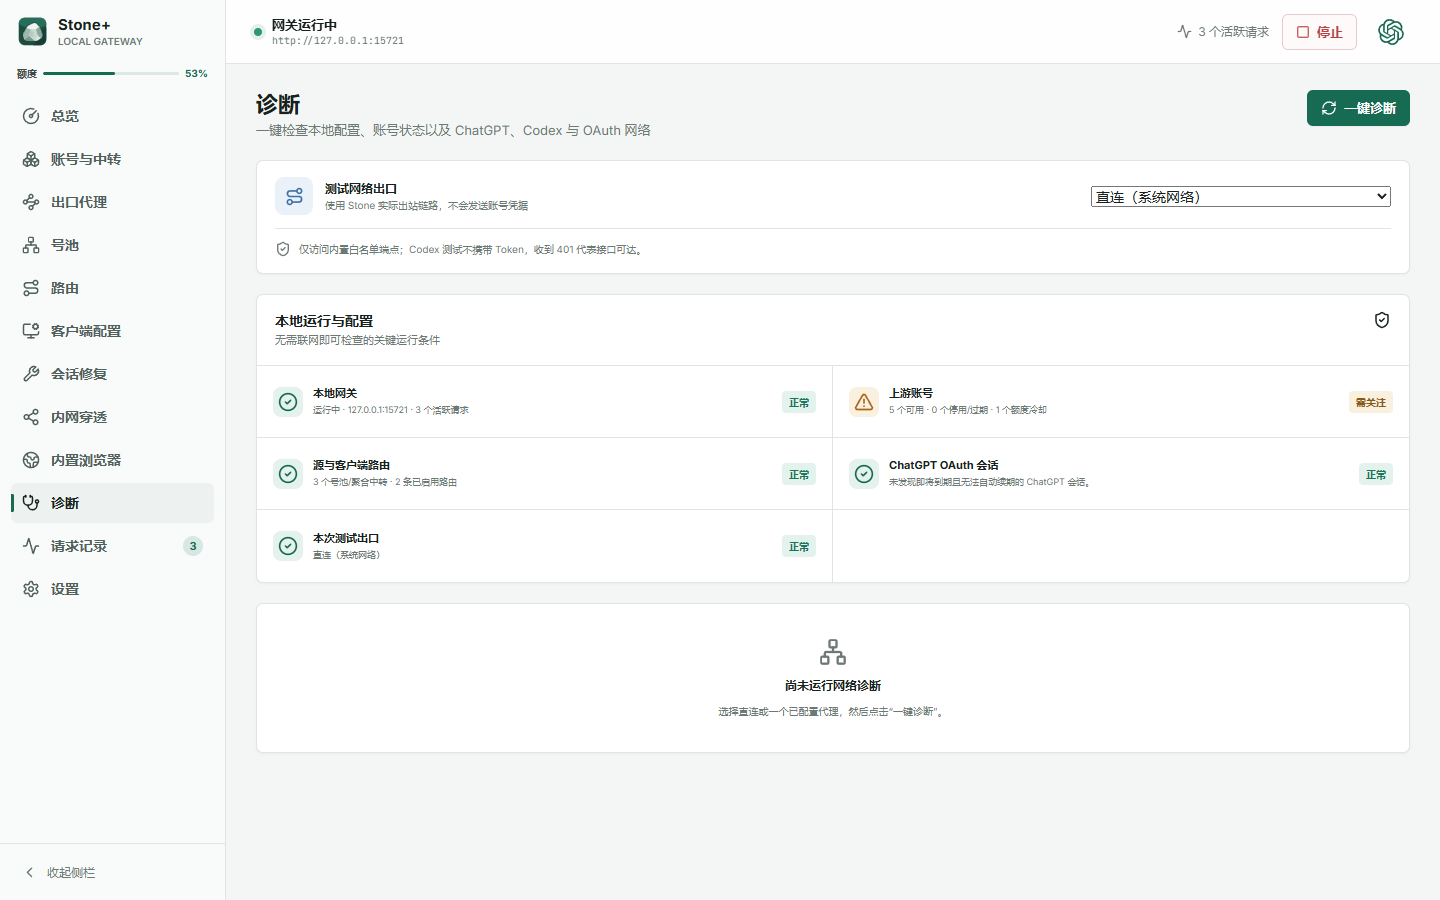
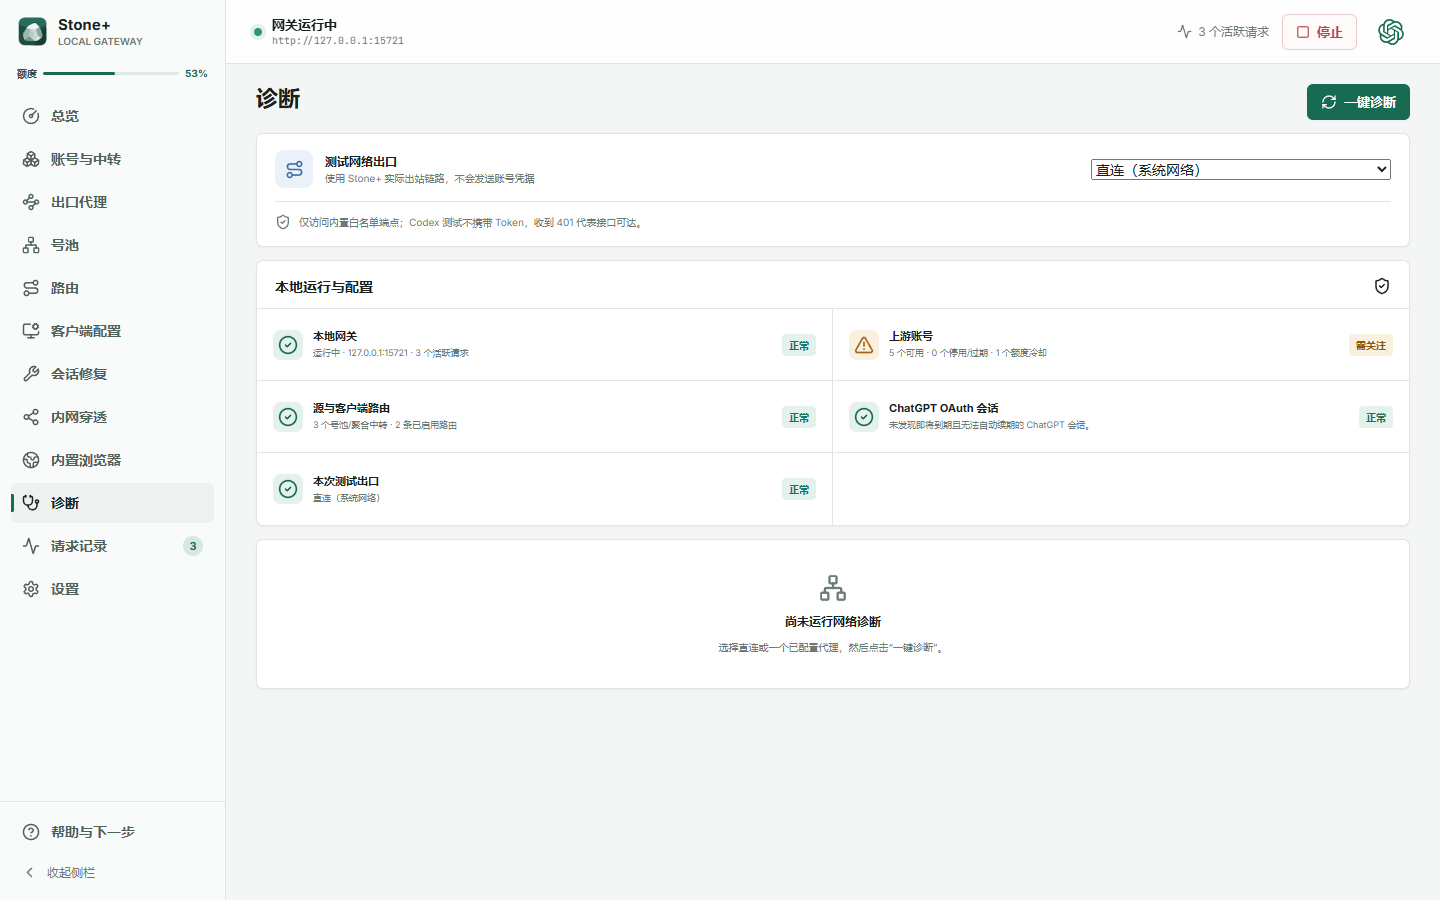
fix(brand): replace remaining Stone promotional assets

diff --git a/src/main/ipc/gateway-api.ts b/src/main/ipc/gateway-api.ts
@@ -282,7 +282,7 @@ export function registerGatewayApi(
       else gateway.resetAccountHealth(accountId)
       publish(refreshRuntime())
     } catch (error) {
-      console.error('Stone could not probe an exhausted ChatGPT account quota', error)
+      console.error('Stone+ could not probe an exhausted ChatGPT account quota', error)
       scheduleQuotaProbe(accountId, Date.now() + 60_000)
     } finally {
       quotaProbeFlights.delete(accountId)
@@ -509,7 +509,7 @@ export function registerGatewayApi(
     void store.appendLog(log).then(() => {
       scheduleRuntimePublish()
     }).catch((error: unknown) => {
-      console.error('Stone could not persist a gateway request log', error)
+      console.error('Stone+ could not persist a gateway request log', error)
     })
   })
 
@@ -592,7 +592,7 @@ export function registerGatewayApi(
     pendingActiveAccountStates.clear()
     await Promise.all(pending.map(async (state) => {
       await persistRoutineAccountState(state).catch((error: unknown) => {
-        console.error('Stone could not persist account health state', error)
+        console.error('Stone+ could not persist account health state', error)
       })
     }))
   }
@@ -608,7 +608,7 @@ export function registerGatewayApi(
     if (routingTransition) {
       pendingActiveAccountStates.delete(state.accountId)
       void persistAccountState(state).catch((error: unknown) => {
-        console.error('Stone could not persist account health state', error)
+        console.error('Stone+ could not persist account health state', error)
       })
       return
     }
@@ -1505,7 +1505,7 @@ export function registerGatewayApi(
       if (wasRunning) {
         gateway.updateConfig(toGatewayConfig(store))
         await gateway.start().catch((restartError: unknown) => {
-          console.error('Stone could not restart the gateway after a failed database restore', restartError)
+          console.error('Stone+ could not restart the gateway after a failed database restore', restartError)
         })
       }
       store.setGatewayStatus(gateway.getStatus())
@@ -2084,7 +2084,7 @@ function healthEventForTransition(
   const wasExhausted = quotaExhausted(before)
   const exhausted = quotaExhausted(after)
   if (!wasExhausted && exhausted) {
-    kind = 'quota-exhausted'; severity = 'warning'; message = '额度已耗尽，Stone 已暂停调度该账号。'
+    kind = 'quota-exhausted'; severity = 'warning'; message = '额度已耗尽，Stone+ 已暂停调度该账号。'
   } else if (wasExhausted && !exhausted) {
     kind = 'quota-restored'; message = '额度窗口已恢复，账号可以重新参与调度。'
   } else if (before && before.status !== 'active' && after.status === 'active') {
@@ -2124,7 +2124,7 @@ function backupIdFromPath(path: string): string {
   if (typeof path !== 'string' || !path) throw new Error('A backup path is required.')
   const id = basename(path)
   const expectedPath = join(app.getPath('userData'), 'backups', id)
-  if (path !== id && path !== expectedPath) throw new Error('Backup path is outside Stone backup storage.')
+  if (path !== id && path !== expectedPath) throw new Error('Backup path is outside Stone+ backup storage.')
   return id
 }
 

diff --git a/src/main/index.ts b/src/main/index.ts
@@ -173,7 +173,7 @@ async function bootstrap(): Promise<void> {
       await gateway.start()
       warmGatewayConnections(store, outboundTransport)
     } catch (error: unknown) {
-      console.error('Stone could not auto-start the gateway', error)
+      console.error('Stone+ could not auto-start the gateway', error)
     } finally {
       store.setGatewayStatus(gateway.getStatus())
     }
@@ -256,7 +256,7 @@ function createWindow(): void {
 function createTray(): void {
   const icon = nativeImage.createFromPath(stoneIconPath())
   if (icon.isEmpty()) {
-    console.warn('Stone tray icon could not be created; continuing without a tray')
+    console.warn('Stone+ tray icon could not be created; continuing without a tray')
     return
   }
 
@@ -338,7 +338,7 @@ async function toggleGatewayFromTray(): Promise<void> {
     store.setGatewayStatus(gateway.getStatus())
     updateTrayMenu()
   } catch (error) {
-    console.error('Stone tray could not toggle gateway', error)
+    console.error('Stone+ tray could not toggle gateway', error)
   }
 }
 
@@ -350,7 +350,7 @@ async function toggleRouteFromTray(routeId: string): Promise<void> {
     gateway.updateConfig(toGatewayConfig(store))
     updateTrayMenu()
   } catch (error) {
-    console.error('Stone tray could not toggle route', error)
+    console.error('Stone+ tray could not toggle route', error)
   }
 }
 
@@ -383,7 +383,7 @@ if (!ownsSingleInstanceLock) {
   app.quit()
 } else {
   void bootstrap().catch((error: unknown) => {
-    console.error('Stone failed to start', error)
+    console.error('Stone+ failed to start', error)
     app.quit()
   })
 }
@@ -404,7 +404,7 @@ function shutdownServices(): Promise<void> {
       if (browserImportQueue) await browserImportQueue.close()
       if (store) await store.close()
     } catch (error: unknown) {
-      console.error('Stone could not finish graceful shutdown', error)
+      console.error('Stone+ could not finish graceful shutdown', error)
     } finally {
       storeClosed = true
     }

diff --git a/src/renderer/src/views/SetupWizardView.tsx b/src/renderer/src/views/SetupWizardView.tsx
@@ -798,7 +798,7 @@ export function SetupWizardView({
                 <label><span><Tag size={13} />{t('账号 Tag（代替备注）', 'Account tag (replaces notes)')}</span><select value={tagId ?? ''} disabled={importConfigurationLocked} onChange={(event) => { const value = event.target.value || null; setTagId(value); void move('source-config', { sourceMethod: accountAddMethod, tagId: value }) }}><option value="">{t('未标记', 'Untagged')}</option>{snapshot.accountTags.map((tag) => <option value={tag.id} key={tag.id}>{tag.name}</option>)}</select><small>{t('同一账号仅使用一个 Tag；未标记会清空重复账号原 Tag。', 'An account can have one tag. Choosing Untagged clears the existing tag on a duplicate account.')}</small></label>
                 <label><span>{t('导入后加入号池（可选）', 'Add to a pool after import (optional)')}</span><select value={poolId ?? ''} disabled={importConfigurationLocked} onChange={(event) => { const value = event.target.value || null; setPoolId(value); void move('source-config', { sourceMethod: accountAddMethod, poolId: value }) }}><option value="">{t('不加入号池', 'Do not add to a pool')}</option>{compatiblePools.map((pool) => <option value={pool.id} key={pool.id}>{setupPoolDisplayName(pool.name, t)} · {t(`${pool.members.length} 个成员`, `${pool.members.length} member(s)`)} · {pool.strategy}</option>)}</select><small>{t('仅列出普通 OpenAI Responses 号池；只加入检测成功账号。', 'Only standard OpenAI Responses pools are listed, and only accounts that pass checks are added.')}</small></label>
                 <label className="full"><span>{t('快速新建 Tag', 'Create a tag')}</span><div className="setup-inline-create"><input maxLength={24} disabled={importConfigurationLocked} value={newTagName} onChange={(event) => setNewTagName(event.target.value)} placeholder={t('自定义 Tag', 'Custom tag')} /><button className="button button--secondary" type="button" disabled={importConfigurationLocked || !newTagName.trim() || Boolean(busy)} onClick={() => void createImportTag()}>{busy === 'create-tag' ? <LoaderCircle size={15} className="spin" /> : <Plus size={15} />}{t('新建并选中', 'Create and select')}</button></div></label>
-                <label><span>{accountAddMethod === 'oauth' ? t('Token 交换与后续检测出口', 'Network exit for token exchange and checks') : t('出口代理', 'Outbound proxy')}</span><select value={proxyId} disabled={importConfigurationLocked} onChange={(event) => { const value = event.target.value; setProxyId(value); void move('source-config', { sourceMethod: accountAddMethod, proxyId: value || null }) }}><option value="">{t('Stone 直连 / 全局出口设置', 'Direct / global outbound setting')}</option>{snapshot.proxies.map((proxy) => <option value={proxy.id} key={proxy.id}>{proxy.name} · {proxy.protocol.toUpperCase()}</option>)}</select><small>{accountAddMethod === 'oauth' ? t('系统浏览器使用自身网络；此选择只用于 Token 交换、检测和后续上游请求。', 'Your system browser uses its own network. This exit is only used for token exchange, account checks, and later upstream requests.') : t('所选出口用于导入后的账号检测和后续上游请求。', 'The selected exit is used to check imported accounts and for later upstream requests.')}</small></label>
+                <label><span>{accountAddMethod === 'oauth' ? t('Token 交换与后续检测出口', 'Network exit for token exchange and checks') : t('出口代理', 'Outbound proxy')}</span><select value={proxyId} disabled={importConfigurationLocked} onChange={(event) => { const value = event.target.value; setProxyId(value); void move('source-config', { sourceMethod: accountAddMethod, proxyId: value || null }) }}><option value="">{t('Stone+ 直连 / 全局出口设置', 'Direct / global outbound setting')}</option>{snapshot.proxies.map((proxy) => <option value={proxy.id} key={proxy.id}>{proxy.name} · {proxy.protocol.toUpperCase()}</option>)}</select><small>{accountAddMethod === 'oauth' ? t('系统浏览器使用自身网络；此选择只用于 Token 交换、检测和后续上游请求。', 'Your system browser uses its own network. This exit is only used for token exchange, account checks, and later upstream requests.') : t('所选出口用于导入后的账号检测和后续上游请求。', 'The selected exit is used to check imported accounts and for later upstream requests.')}</small></label>
                 <label><span>{t('账号名称（可选）', 'Account name (optional)')}</span><input value={accountName} disabled={importConfigurationLocked} onChange={(event) => setAccountName(event.target.value)} placeholder={t('留空则使用账号邮箱', 'Leave blank to use the account email')} /></label>
               </div>
               </div>
@@ -843,16 +843,16 @@ export function SetupWizardView({
           </WizardSection>}
 
           {currentStep === 'client' && <WizardSection icon={<Settings2 />} title={t('选择主客户端', 'Choose your primary client')} description={t('向导一次配置一个客户端，完成后可以继续配置其他客户端。', 'The wizard configures one client at a time. You can add more after this setup.')}>
-            <div className="setup-choice-grid setup-choice-grid--clients">{(['codex', 'claude', 'gemini'] as RouteClient[]).map((item) => <Choice key={item} title={clientLabels[item]} description={item === 'codex' ? t('推荐用于 OAuth / Responses 来源', 'Recommended for OAuth / Responses sources') : t(`通过 Stone 协议转换接入 ${clientLabels[item]}`, `Connect ${clientLabels[item]} through Stone protocol conversion`)} selected={client === item} onClick={() => setClient(item)} />)}</div>
+            <div className="setup-choice-grid setup-choice-grid--clients">{(['codex', 'claude', 'gemini'] as RouteClient[]).map((item) => <Choice key={item} title={clientLabels[item]} description={item === 'codex' ? t('推荐用于 OAuth / Responses 来源', 'Recommended for OAuth / Responses sources') : t(`通过 Stone+ 协议转换接入 ${clientLabels[item]}`, `Connect ${clientLabels[item]} through Stone+ protocol conversion`)} selected={client === item} onClick={() => setClient(item)} />)}</div>
             <PrimaryAction busy={false} onClick={() => void move('routing', { client, model })} label={t('继续配置路由', 'Continue to routing')} />
           </WizardSection>}
 
-          {currentStep === 'routing' && <WizardSection icon={<Waypoints />} title={t('创建号池与路由', 'Create the pool and route')} description={t('Stone 会原子创建或复用号池，并启用对应客户端路由。', 'Stone atomically creates or reuses a pool and enables the matching client route.')}>
+          {currentStep === 'routing' && <WizardSection icon={<Waypoints />} title={t('创建号池与路由', 'Create the pool and route')} description={t('Stone+ 会原子创建或复用号池，并启用对应客户端路由。', 'Stone+ atomically creates or reuses a pool and enables the matching client route.')}>
             <SummaryRows rows={[[t('来源', 'Source'), selectedAccount?.name ?? selectedAccountId], [t('客户端', 'Client'), clientLabels[client]], [t('模型', 'Model'), model || t('未选择', 'Not selected')], [t('目标号池', 'Target pool'), snapshot.pools.find((pool) => pool.id === (aggregatePoolId || poolId))?.name ?? t('自动创建或复用', 'Create or reuse automatically')]]} />
             <PrimaryAction busy={busy === 'routing'} onClick={() => void createRouting()} label={t('应用号池与路由', 'Apply pool and route')} />
           </WizardSection>}
 
-          {currentStep === 'gateway' && <WizardSection icon={<Server />} title={t('启动本地网关', 'Start the local gateway')} description={t('默认监听 127.0.0.1:15721；端口冲突时会选择相邻可用端口。', 'The default is 127.0.0.1:15721. If that port is busy, Stone chooses a nearby available port.')}>
+          {currentStep === 'gateway' && <WizardSection icon={<Server />} title={t('启动本地网关', 'Start the local gateway')} description={t('默认监听 127.0.0.1:15721；端口冲突时会选择相邻可用端口。', 'The default is 127.0.0.1:15721. If that port is busy, Stone+ chooses a nearby available port.')}>
             <SummaryRows rows={[[t('监听地址', 'Listen address'), `${snapshot.gateway.host}:${snapshot.gateway.port}`], [t('当前状态', 'Current status'), snapshot.gatewayStatus.running ? t('运行中', 'Running') : t('已停止', 'Stopped')], [t('号池', 'Pool'), routing?.poolId ?? poolId ?? t('已配置', 'Configured')]]} />
             <PrimaryAction busy={busy === 'gateway'} onClick={() => void startGateway()} label={t('确保网关运行', 'Ensure gateway is running')} />
           </WizardSection>}
@@ -868,7 +868,7 @@ export function SetupWizardView({
             <div className="setup-actions"><button className="button button--secondary" type="button" disabled={Boolean(busy)} onClick={() => void previewClient()}>{t('预览配置', 'Preview configuration')}</button><button className="button button--secondary" type="button" disabled={Boolean(busy)} onClick={() => void finish()}>{t('暂时跳过', 'Skip for now')}</button><PrimaryAction busy={busy === 'apply-client'} onClick={() => void applyClient()} label={t('应用并备份', 'Apply and back up')} /></div>
           </WizardSection>}
 
-          {currentStep === 'complete' && <WizardSection icon={<CheckCircle2 />} title={t('配置已经跑通', 'Setup is working')} description={t('Stone 已完成一次从本地网关到上游模型的真实请求。', 'Stone completed a real request from the local gateway to the upstream model.')}>
+          {currentStep === 'complete' && <WizardSection icon={<CheckCircle2 />} title={t('配置已经跑通', 'Setup is working')} description={t('Stone+ 已完成一次从本地网关到上游模型的真实请求。', 'Stone+ completed a real request from the local gateway to the upstream model.')}>
             <SummaryRows rows={[[t('客户端', 'Client'), clientLabels[client]], [t('模型', 'Model'), model], [t('号池', 'Pool'), poolId ?? routing?.poolId ?? '—'], [t('本地网关', 'Local gateway'), `http://${snapshot.gatewayStatus.host}:${snapshot.gatewayStatus.port}`], [t('测试耗时', 'Test duration'), verification ? `${verification.latencyMs} ms` : '—']]} />
             <div className="setup-actions"><button className="button button--secondary" type="button" onClick={() => { setVerification(null); void api.saveSetupWizardProgress({ step: 'source' }).then(setWizard) }}>{t('继续配置另一个来源', 'Configure another source')}</button><button className="button button--primary" type="button" onClick={() => void exitWizard()}>{t('返回总览', 'Return to overview')}</button></div>
           </WizardSection>}

diff --git a/src/renderer/src/mockApi.ts b/src/renderer/src/mockApi.ts
@@ -434,7 +434,7 @@ const logs: RequestLog[] = [
   return {
     id,
     conversationId: `thread-${id}`,
-    conversationName: client === 'codex' ? `Stone 开发对话 ${id.slice(-2)}` : `${clientNamesForMock(client)} 会话 ${id.slice(-2)}`,
+    conversationName: client === 'codex' ? `Stone+ 开发对话 ${id.slice(-2)}` : `${clientNamesForMock(client)} 会话 ${id.slice(-2)}`,
     timestamp: now - secondsAgo * 1000,
     client,
     protocol,
@@ -589,8 +589,8 @@ const mockPoolNames: Record<string, readonly [string, string]> = {
 
 function localizeMockConversationName(value: string | undefined): string | undefined {
   if (!value) return value
-  const codex = value.match(/^(?:Stone 开发对话|Stone development chat) (.+)$/)
-  if (codex) return `${mockText('Stone 开发对话', 'Stone development chat')} ${codex[1]}`
+  const codex = value.match(/^(?:Stone\+? 开发对话|Stone\+? development chat) (.+)$/)
+  if (codex) return `${mockText('Stone+ 开发对话', 'Stone+ development chat')} ${codex[1]}`
   const session = value.match(/^(Claude|Codex|Gemini) (?:会话|session) (.+)$/)
   if (session) return `${session[1]} ${mockText('会话', 'session')} ${session[2]}`
   return value
@@ -1683,7 +1683,7 @@ export function createMockApi(): GatewayApi {
           ...file,
           existed: client !== 'gemini',
           changed: client === 'gemini',
-          managedFields: [mockText('Stone 管理字段', 'Stone-managed field')],
+          managedFields: [mockText('Stone+ 管理字段', 'Stone+ managed field')],
         })),
       }
     },

diff --git a/src/renderer/src/views/SettingsView.tsx b/src/renderer/src/views/SettingsView.tsx
@@ -96,9 +96,9 @@ export function SettingsView({
   }
 
   const restoreBackup = async (backup: BackupRecordSummary) => {
-    if (!window.confirm(t('恢复会替换当前本地数据并需要重启 Stone，是否继续？', 'Restoring will replace the current local data and requires restarting Stone. Continue?'))) return
+    if (!window.confirm(t('恢复会替换当前本地数据并需要重启 Stone+，是否继续？', 'Restoring will replace the current local data and requires restarting Stone+. Continue?'))) return
     const result = await api.restoreStateBackup(backup.path)
-    setOperationNotice(result.restartRequired ? t('数据已恢复，请退出并重新启动 Stone。', 'Data restored. Quit and restart Stone.') : t('数据已恢复。', 'Data restored.'))
+    setOperationNotice(result.restartRequired ? t('数据已恢复，请退出并重新启动 Stone+。', 'Data restored. Quit and restart Stone+.') : t('数据已恢复。', 'Data restored.'))
   }
 
   const exportDiagnostics = async () => {
@@ -166,7 +166,7 @@ export function SettingsView({
             <div className="field"><span>{t('当前端点', 'Current Endpoint')}</span><code className="settings-endpoint">{currentEndpoint}</code></div>
           </div>
           <SettingRow title={t('应用启动时运行网关', 'Run gateway when the app starts')} control={<Toggle checked={draft.autoStart} onChange={(value) => setDraft({ ...draft, autoStart: value })} label={t('应用启动时运行网关', 'Run gateway when the app starts')} />} />
-          <SettingRow title={t('登录系统时启动 Stone', 'Launch Stone at login')} control={<Toggle checked={Boolean(draft.launchAtLogin)} onChange={(value) => setDraft({ ...draft, launchAtLogin: value })} label={t('登录系统时启动 Stone', 'Launch Stone at login')} />} />
+          <SettingRow title={t('登录系统时启动 Stone+', 'Launch Stone+ at login')} control={<Toggle checked={Boolean(draft.launchAtLogin)} onChange={(value) => setDraft({ ...draft, launchAtLogin: value })} label={t('登录系统时启动 Stone+', 'Launch Stone+ at login')} />} />
           <SettingRow title={t('桌面健康通知', 'Desktop health notifications')} description={t('账号停用、冷却、额度耗尽或恢复时通知', 'Notify when accounts are disabled, cooling down, out of quota, or recovered')} control={<Toggle checked={draft.desktopNotifications !== false} onChange={(value) => setDraft({ ...draft, desktopNotifications: value })} label={t('桌面健康通知', 'Desktop health notifications')} />} />
           <SettingRow
             title={t('适配系统代理', 'Use system proxy')}
@@ -187,7 +187,7 @@ export function SettingsView({
       <section className="settings-section">
         <header><div className="settings-section__icon settings-section__icon--secure"><Archive size={18} /></div><div><h2>{t('备份与恢复', 'Backup & Restore')}</h2></div></header>
         <div className="settings-section__content">
-          <SettingRow title={t('自动备份', 'Automatic backups')} description={t('Stone 启动时创建校验过的本地快照', 'Create a verified local snapshot when Stone starts')} control={<Toggle checked={draft.automaticBackups !== false} onChange={(value) => setDraft({ ...draft, automaticBackups: value })} label={t('自动备份', 'Automatic backups')} />} />
+          <SettingRow title={t('自动备份', 'Automatic backups')} description={t('Stone+ 启动时创建校验过的本地快照', 'Create a verified local snapshot when Stone+ starts')} control={<Toggle checked={draft.automaticBackups !== false} onChange={(value) => setDraft({ ...draft, automaticBackups: value })} label={t('自动备份', 'Automatic backups')} />} />
           <label className="field backup-retention"><span>{t('最多保留备份', 'Maximum backups')}</span><div className="input-suffix"><input type="number" min={1} max={100} value={draft.backupRetention ?? 10} onChange={(event) => setDraft({ ...draft, backupRetention: Number(event.target.value) })} /><span>{t('份', 'files')}</span></div></label>
           <div className="settings-actions"><button className="button button--secondary" type="button" onClick={() => void createBackup()}><Archive size={16} />{t('立即备份', 'Back Up Now')}</button><button className="button button--secondary" type="button" onClick={() => void exportDiagnostics()}><FileDown size={16} />{t('复制诊断报告', 'Copy Diagnostics Report')}</button><button className="button button--secondary" type="button" onClick={() => void api.clearHealthEvents()}><BellRing size={16} />{t('清除健康事件', 'Clear Health Events')}</button></div>
           {operationNotice && <div className="client-config-notice">{operationNotice}</div>}

diff --git a/src/main/backup/database-backup-service.ts b/src/main/backup/database-backup-service.ts
@@ -58,7 +58,7 @@ export class DatabaseBackupService<T> {
     this.now = options.now ?? Date.now
     this.randomId = options.randomId ?? randomUUID
     this.onAutomaticBackupError = options.onAutomaticBackupError ?? ((error) => {
-      console.error('Stone automatic database backup failed', error)
+      console.error('Stone+ automatic database backup failed', error)
     })
   }
 
@@ -250,8 +250,8 @@ export class DatabaseBackupService<T> {
         ...(schemaVersion > SQLITE_SCHEMA_VERSION
           ? [`Database schema ${schemaVersion} is newer than supported schema ${SQLITE_SCHEMA_VERSION}`]
           : []),
-        ...(missingTables.length > 0 ? [`Missing Stone tables: ${missingTables.join(', ')}`] : []),
-        ...(initialized?.value !== '1' ? ['Stone database initialization marker is missing'] : [])
+        ...(missingTables.length > 0 ? [`Missing Stone+ tables: ${missingTables.join(', ')}`] : []),
+        ...(initialized?.value !== '1' ? ['Stone+ database initialization marker is missing'] : [])
       ]
       return {
         ...fallback,

diff --git a/src/main/ipc/trusted-sender.ts b/src/main/ipc/trusted-sender.ts
@@ -4,7 +4,7 @@ export function assertTrustedSender(event: IpcMainInvokeEvent): void {
   const frame = event.senderFrame
   const owner = BrowserWindow.fromWebContents(event.sender)
   if (!frame || !owner || frame !== event.sender.mainFrame) {
-    throw new Error('Stone rejected IPC from an untrusted frame.')
+    throw new Error('Stone+ rejected IPC from an untrusted frame.')
   }
 
   const url = new URL(frame.url)
@@ -12,5 +12,5 @@ export function assertTrustedSender(event: IpcMainInvokeEvent): void {
   const trusted = developmentUrl
     ? url.origin === new URL(developmentUrl).origin
     : url.protocol === 'file:' && decodeURIComponent(url.pathname).replaceAll('\\', '/').endsWith('/out/renderer/index.html')
-  if (!trusted) throw new Error('Stone rejected IPC from an untrusted origin.')
+  if (!trusted) throw new Error('Stone+ rejected IPC from an untrusted origin.')
 }

diff --git a/src/main/update/update-service.ts b/src/main/update/update-service.ts
@@ -166,10 +166,10 @@ export class UpdateService {
   public async ignoreUpdate(version: string): Promise<AppUpdateState> {
     const normalized = valid(version)
     if (!normalized || !this.state.release || !eq(normalized, this.state.release.version)) {
-      throw new Error('Stone rejected an invalid update version.')
+      throw new Error('Stone+ rejected an invalid update version.')
     }
     if (!gt(normalized, this.state.currentVersion)) {
-      throw new Error('Stone cannot ignore a version that is already installed.')
+      throw new Error('Stone+ cannot ignore a version that is already installed.')
     }
 
     await this.options.preferences.setIgnoredUpdateVersion(normalized)

diff --git a/src/renderer/src/App.tsx b/src/renderer/src/App.tsx
@@ -280,8 +280,8 @@ export default function App() {
   const installUpdate = useCallback(async () => {
     if (snapshot && snapshot.gatewayStatus.activeRequests > 0) {
       const confirmed = window.confirm(t(
-        `当前仍有 ${snapshot.gatewayStatus.activeRequests} 个活跃请求。更新会关闭 Stone 并中断这些请求，是否继续？`,
-        `${snapshot.gatewayStatus.activeRequests} active request(s) are still running. The update will close Stone and interrupt them. Continue?`,
+        `当前仍有 ${snapshot.gatewayStatus.activeRequests} 个活跃请求。更新会关闭 Stone+ 并中断这些请求，是否继续？`,
+        `${snapshot.gatewayStatus.activeRequests} active request(s) are still running. The update will close Stone+ and interrupt them. Continue?`,
       ))
       if (!confirmed) return
     }

diff --git a/src/renderer/src/views/NetworkTestView.tsx b/src/renderer/src/views/NetworkTestView.tsx
@@ -63,7 +63,7 @@ export function NetworkTestView({ snapshot, api }: { snapshot: AppSnapshot; api:
     <section className="panel network-test-controls">
       <div className="network-test-route">
         <span className="network-test-route__icon"><Route size={19} /></span>
-        <div><strong>{t('测试网络出口', 'Network route to test')}</strong><span>{t('使用 Stone 实际出站链路，不会发送账号凭据', 'Uses Stone’s actual outbound route without sending account credentials')}</span></div>
+        <div><strong>{t('测试网络出口', 'Network route to test')}</strong><span>{t('使用 Stone+ 实际出站链路，不会发送账号凭据', 'Uses Stone+’s actual outbound route without sending account credentials')}</span></div>
         <select aria-label={t('测试网络出口', 'Network route to test')} value={proxyId} disabled={running} onChange={(event) => setProxyId(event.target.value)}>
           <option value="">{t('直连（系统网络）', 'Direct (system network)')}</option>
           {snapshot.proxies.map((proxy) => <option value={proxy.id} key={proxy.id}>{proxy.name} · {proxy.protocol.toUpperCase()}</option>)}
@@ -195,7 +195,7 @@ function buildLocalChecks(snapshot: AppSnapshot, proxyId: string, language: UiLa
       status: snapshot.gatewayStatus.running ? 'success' : 'warning',
       message: snapshot.gatewayStatus.running
         ? t(`运行中 · ${snapshot.gatewayStatus.host}:${snapshot.gatewayStatus.port} · ${snapshot.gatewayStatus.activeRequests} 个活跃请求`, `Running · ${snapshot.gatewayStatus.host}:${snapshot.gatewayStatus.port} · ${snapshot.gatewayStatus.activeRequests} active requests`)
-        : t('当前未启动；网络诊断仍可运行，但客户端暂时无法通过 Stone 请求。', 'Not running. Diagnostics remain available, but clients cannot currently send requests through Stone.')
+        : t('当前未启动；网络诊断仍可运行，但客户端暂时无法通过 Stone+ 请求。', 'Not running. Diagnostics remain available, but clients cannot currently send requests through Stone+.')
     },
     {
       id: 'accounts', label: t('上游账号', 'Upstream accounts'),

diff --git a/src/main/client-config/catalog.ts b/src/main/client-config/catalog.ts
@@ -458,7 +458,7 @@ export function applyClientConfigFieldPatches(
     seen.add(patch.id)
     const definition = definitions.get(patch.id)
     if (!definition) throw new ClientConfigValidationError('Unknown client configuration field')
-    if (definition.readOnly) throw new ClientConfigValidationError('A Stone-managed client configuration field is read-only')
+    if (definition.readOnly) throw new ClientConfigValidationError('A Stone+-managed client configuration field is read-only')
     const value = validateValue(definition, patch.value)
     const values = grouped.get(definition.role) ?? []
     values.push({ definition, value })

diff --git a/src/main/client-config/service.ts b/src/main/client-config/service.ts
@@ -143,7 +143,7 @@ export class ClientConfigService {
       if (!file) throw new ClientConfigValidationError('A client configuration file does not belong to the selected client')
       const source = existing[file.role]
       if (draft.revision !== revisionOf(source)) {
-        throw new ClientConfigValidationError('Client configuration changed outside Stone. Reload it before saving.')
+        throw new ClientConfigValidationError('Client configuration changed outside Stone+. Reload it before saving.')
       }
       edited[file.role] = restoreClientConfigEditorContent(file, draft.content, source)
     }